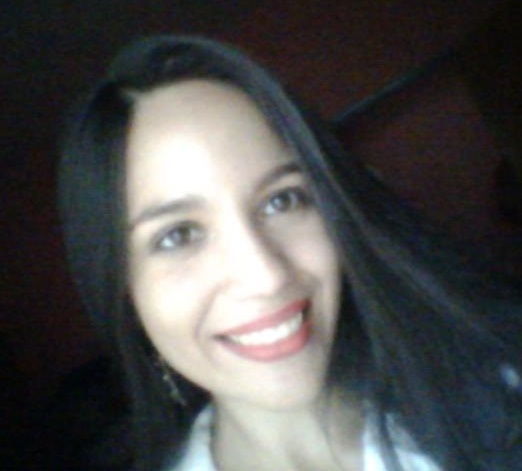
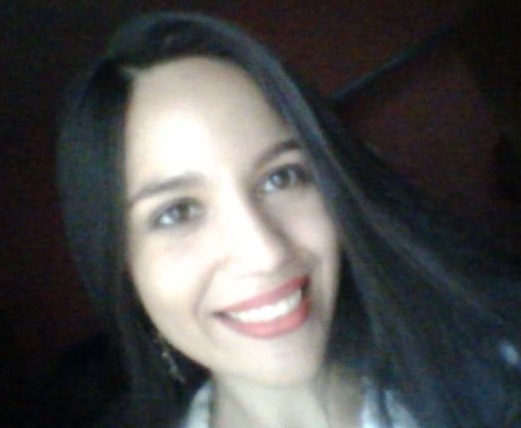
nueva version

diff --git a/index.html b/index.html
@@ -79,7 +79,7 @@
 
          <div class="three columns">
 
-            <img class="profile-pic"  src="images/cindyzac.jpg" alt="" />
+            <img class="profile-pic"  src="images/cindyzacarias.jpg" alt="" />
 
          </div>
 
@@ -92,7 +92,6 @@
             <p>Poseo habilidades en:<br>
                • HTML5, CSS3, Bootstrap, PHP, Javascript, jQuery y MySQL.<br>
                • Manejo de CMS como Wordpress y Prestashop.<br>
-               • Manejo de LMS como Chamilo y Moodle.<br>
             </p>
 
             <div class="row">
@@ -102,8 +101,7 @@
                   <h2>Detalles de Contacto</h2>
                   <p class="address">
                            <span>Cindy Zacarias</span><br>
-						   <span>Telf: +584169822554</span><br>
-                           <span>Correo: workcindyz@gmail.com</span><br>
+                           <span>Correo: cinzacode@gmail.com</span><br>
                            <span>Skype: cindyzacarias</span>
 				  </p>
                </div>
@@ -408,7 +406,7 @@
 
             <div class="ten columns">
 
-                  <p class="lead">Si tienes un proyecto, o solo quieres saludar, escríbeme al correo <u>workcindyz@gmail.com</u> 
+                  <p class="lead">Si tienes un proyecto, o solo quieres saludar, escríbeme al correo <u>cinzacode@gmail.com</u> 
                   </p>
 
             </div>
@@ -422,8 +420,7 @@
 					   <h4>Detalles de Contacto</h4>
 					   <p class="address">
                             <span>Cindy Zacarias</span><br>
-                            <span>Telf: +584169822554</span><br>
-                            <span>Correo: workcindyz@gmail.com</span><br>
+                            <span>Correo: cinzacode@gmail.com</span><br>
                             <span>Skype: cindyzacarias</span>
 					   </p>
                    </div>
